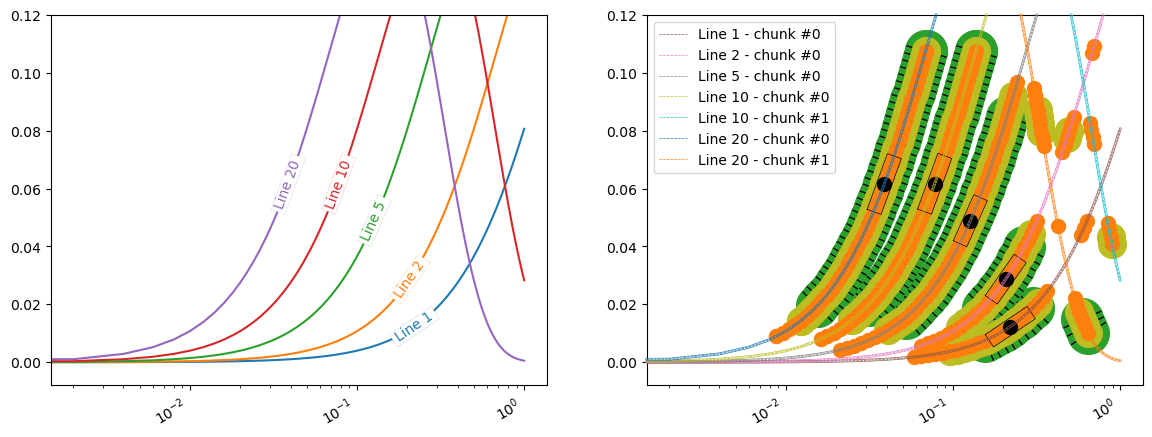
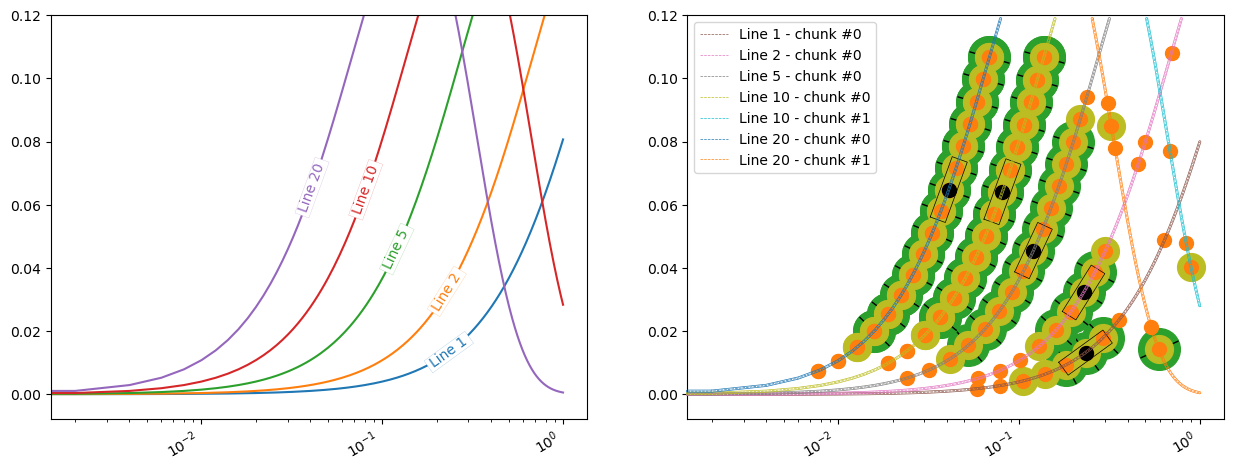
`fig_for_debug` arg optional when `debug=True`

diff --git a/src/inline_labels.py b/src/inline_labels.py
@@ -136,9 +136,13 @@ def get_dbg_axes(ax: Axes, fig_for_debug: Figure) -> Tuple[Axes, Axes]:
     ax.get_figure().canvas.draw()
     plt.close("all")
     # Determine original Axes dimensions,
-    # Solution found at https://stackoverflow.com/questions/19306510/determine-matplotlib-axis-size-in-pixels
-    ax_bbox = ax.get_window_extent().transformed(fig_for_debug.dpi_scale_trans.inverted())
-    ax_box_dim = max(ax_bbox.width, ax_bbox.height)
+    if fig_for_debug is None:
+        ax_bbox = ax.get_tightbbox().transformed(ax.figure.dpi_scale_trans.inverted())
+        ax_box_dim = max(ax_bbox.width, ax_bbox.height)
+    else:
+        # Solution found at https://stackoverflow.com/questions/19306510/determine-matplotlib-axis-size-in-pixels
+        ax_bbox = ax.get_window_extent().transformed(fig_for_debug.dpi_scale_trans.inverted())
+        ax_box_dim = max(ax_bbox.width, ax_bbox.height)
     fig_dbg = plt.figure(
         figsize=((ax_box_dim), (ax_box_dim)), dpi=ax.get_figure().get_dpi()
     )  # , dpi=100, tight_layout=True) => tight_layout and dpi does not work with fixed size axes
@@ -846,9 +850,6 @@ def add_inline_labels(
     # Draw the figure before anything else
     ax.get_figure().canvas.draw_idle()
 
-    # Check that the figure belonging to the provided Axe has been passed via fig_for_debug in case debug=True
-    if debug and fig_for_debug is None:
-        raise ValueError("`fig_for_debug` has to be provided in case `debug=True`")
 
     # Nested progress bar does not work in every case => set overall and per label progress option mutualy exclusive
     if with_overall_progress and with_perlabel_progress:

diff --git a/examples/example.py b/examples/example.py
@@ -38,7 +38,7 @@ fig, ax = plt.subplots()
 for a in A:
     ax.semilogx(X, chi2(5).pdf(a * X), label=f"Line {a}")
 ax.set_ylim(top=0.12)
-fig_debug = add_inline_labels(ax, ppf=0.5, with_perlabel_progress=True, debug=True, fig_for_debug=fig)
+fig_debug = add_inline_labels(ax, ppf=1.5, with_perlabel_progress=True, debug=True)
 
 fig_debug.savefig("example_debug.png", bbox_inches="tight")
 # %%

diff --git a/README.md b/README.md
@@ -60,7 +60,7 @@ fig, ax = plt.subplots()
 for a in A: 
     ax.semilogx(X, chi2(5).pdf(a * X), label=f"Line {a}")
 ax.set_ylim(top=0.12)
-fig_debug = add_inline_labels(ax, ppf=0.5, with_perlabel_progress=True, debug=True, fig_for_debug=fig)
+fig_debug = add_inline_labels(ax, ppf=1.5, with_perlabel_progress=True, debug=True)
 
 fig_debug.show()
 ```
